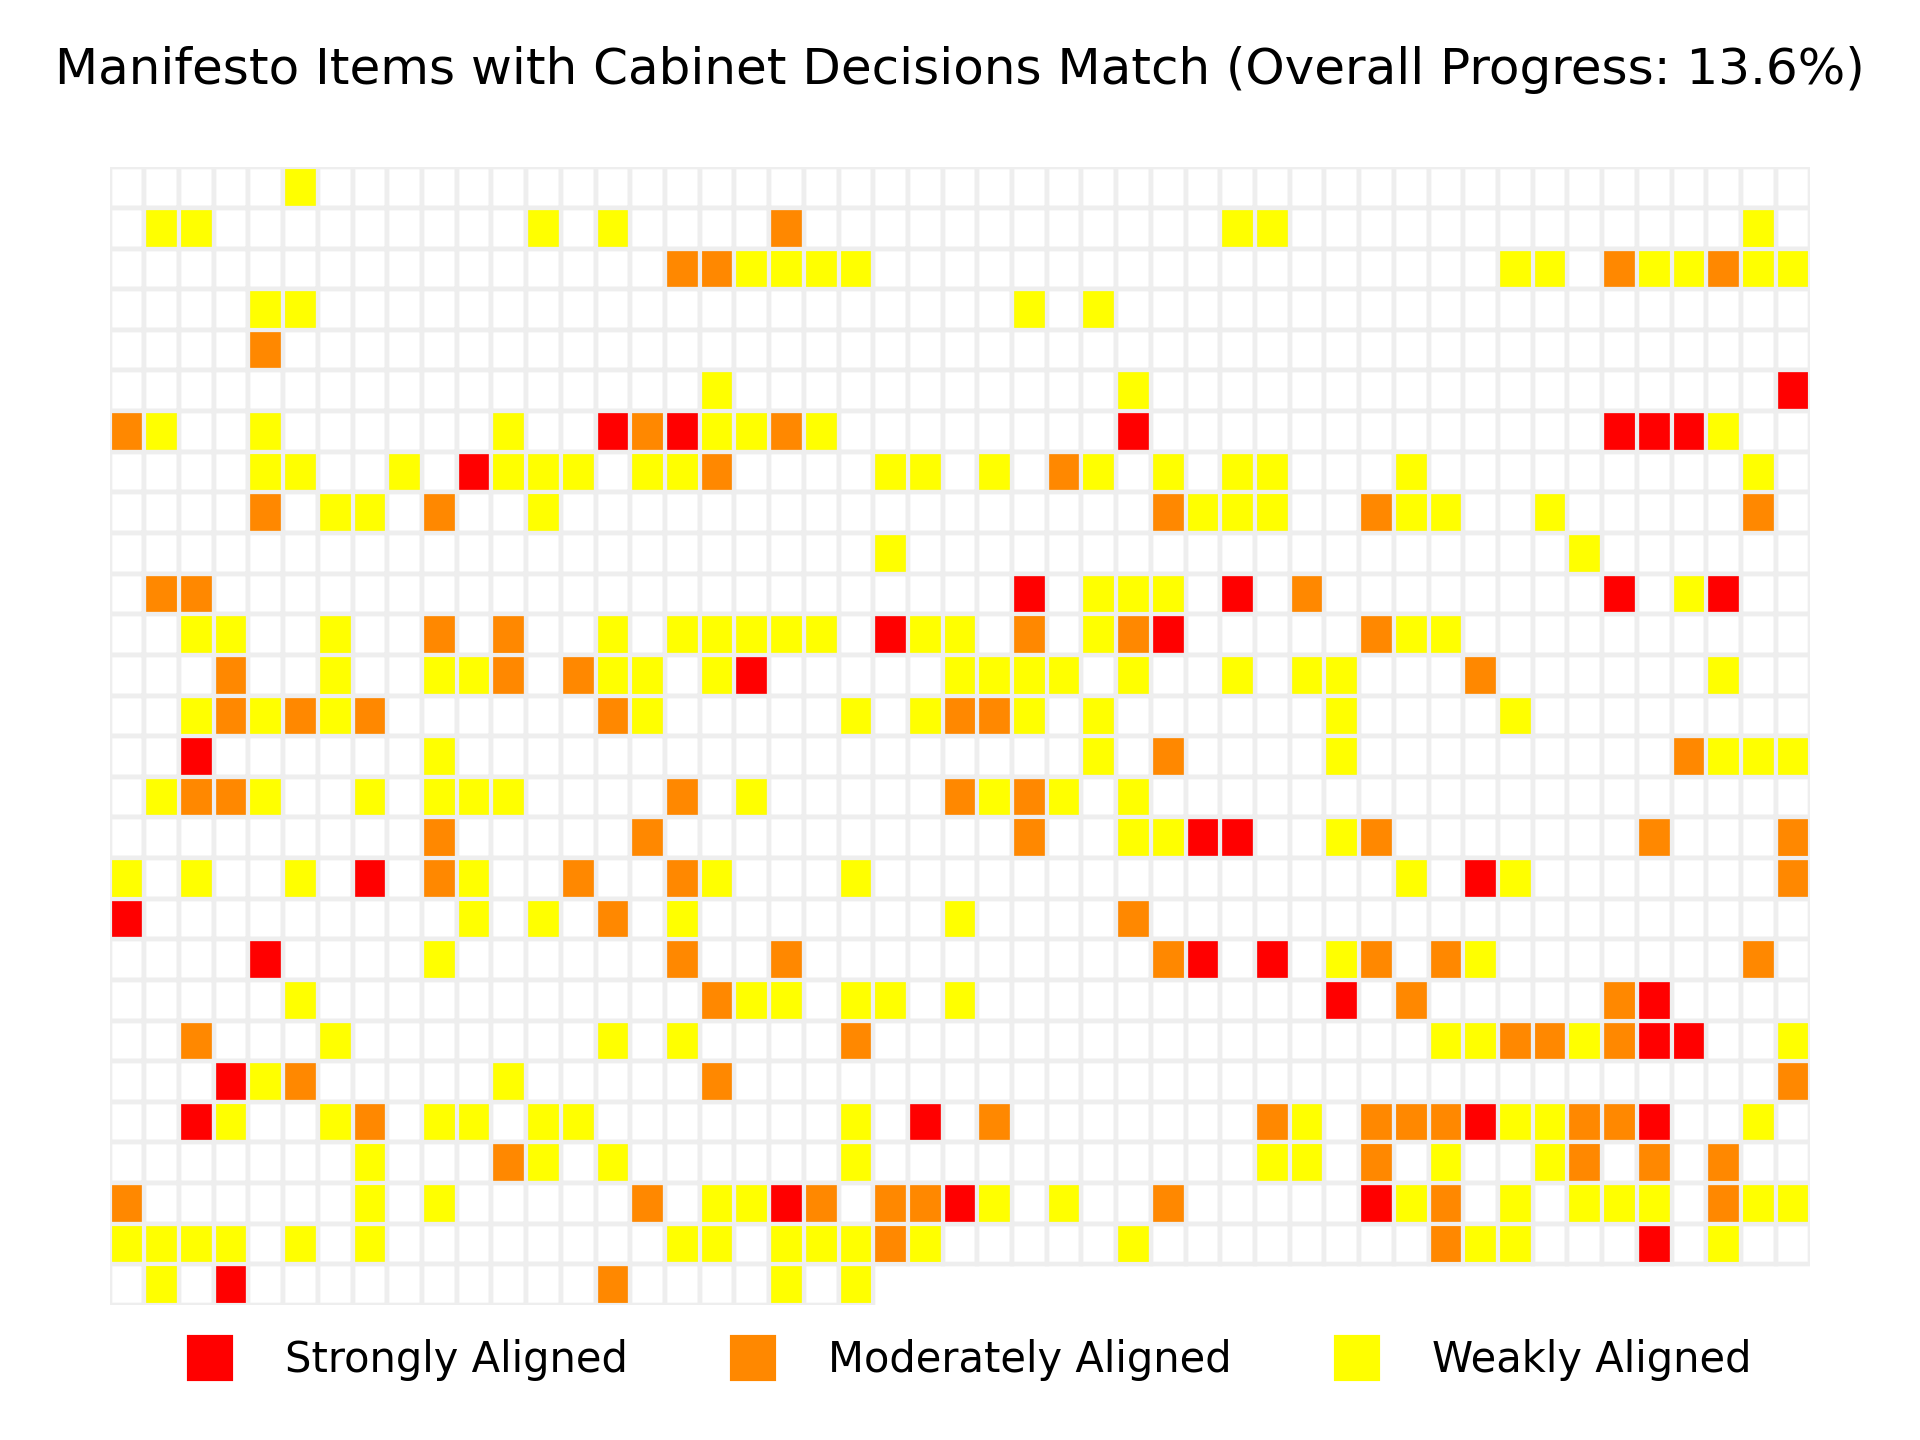
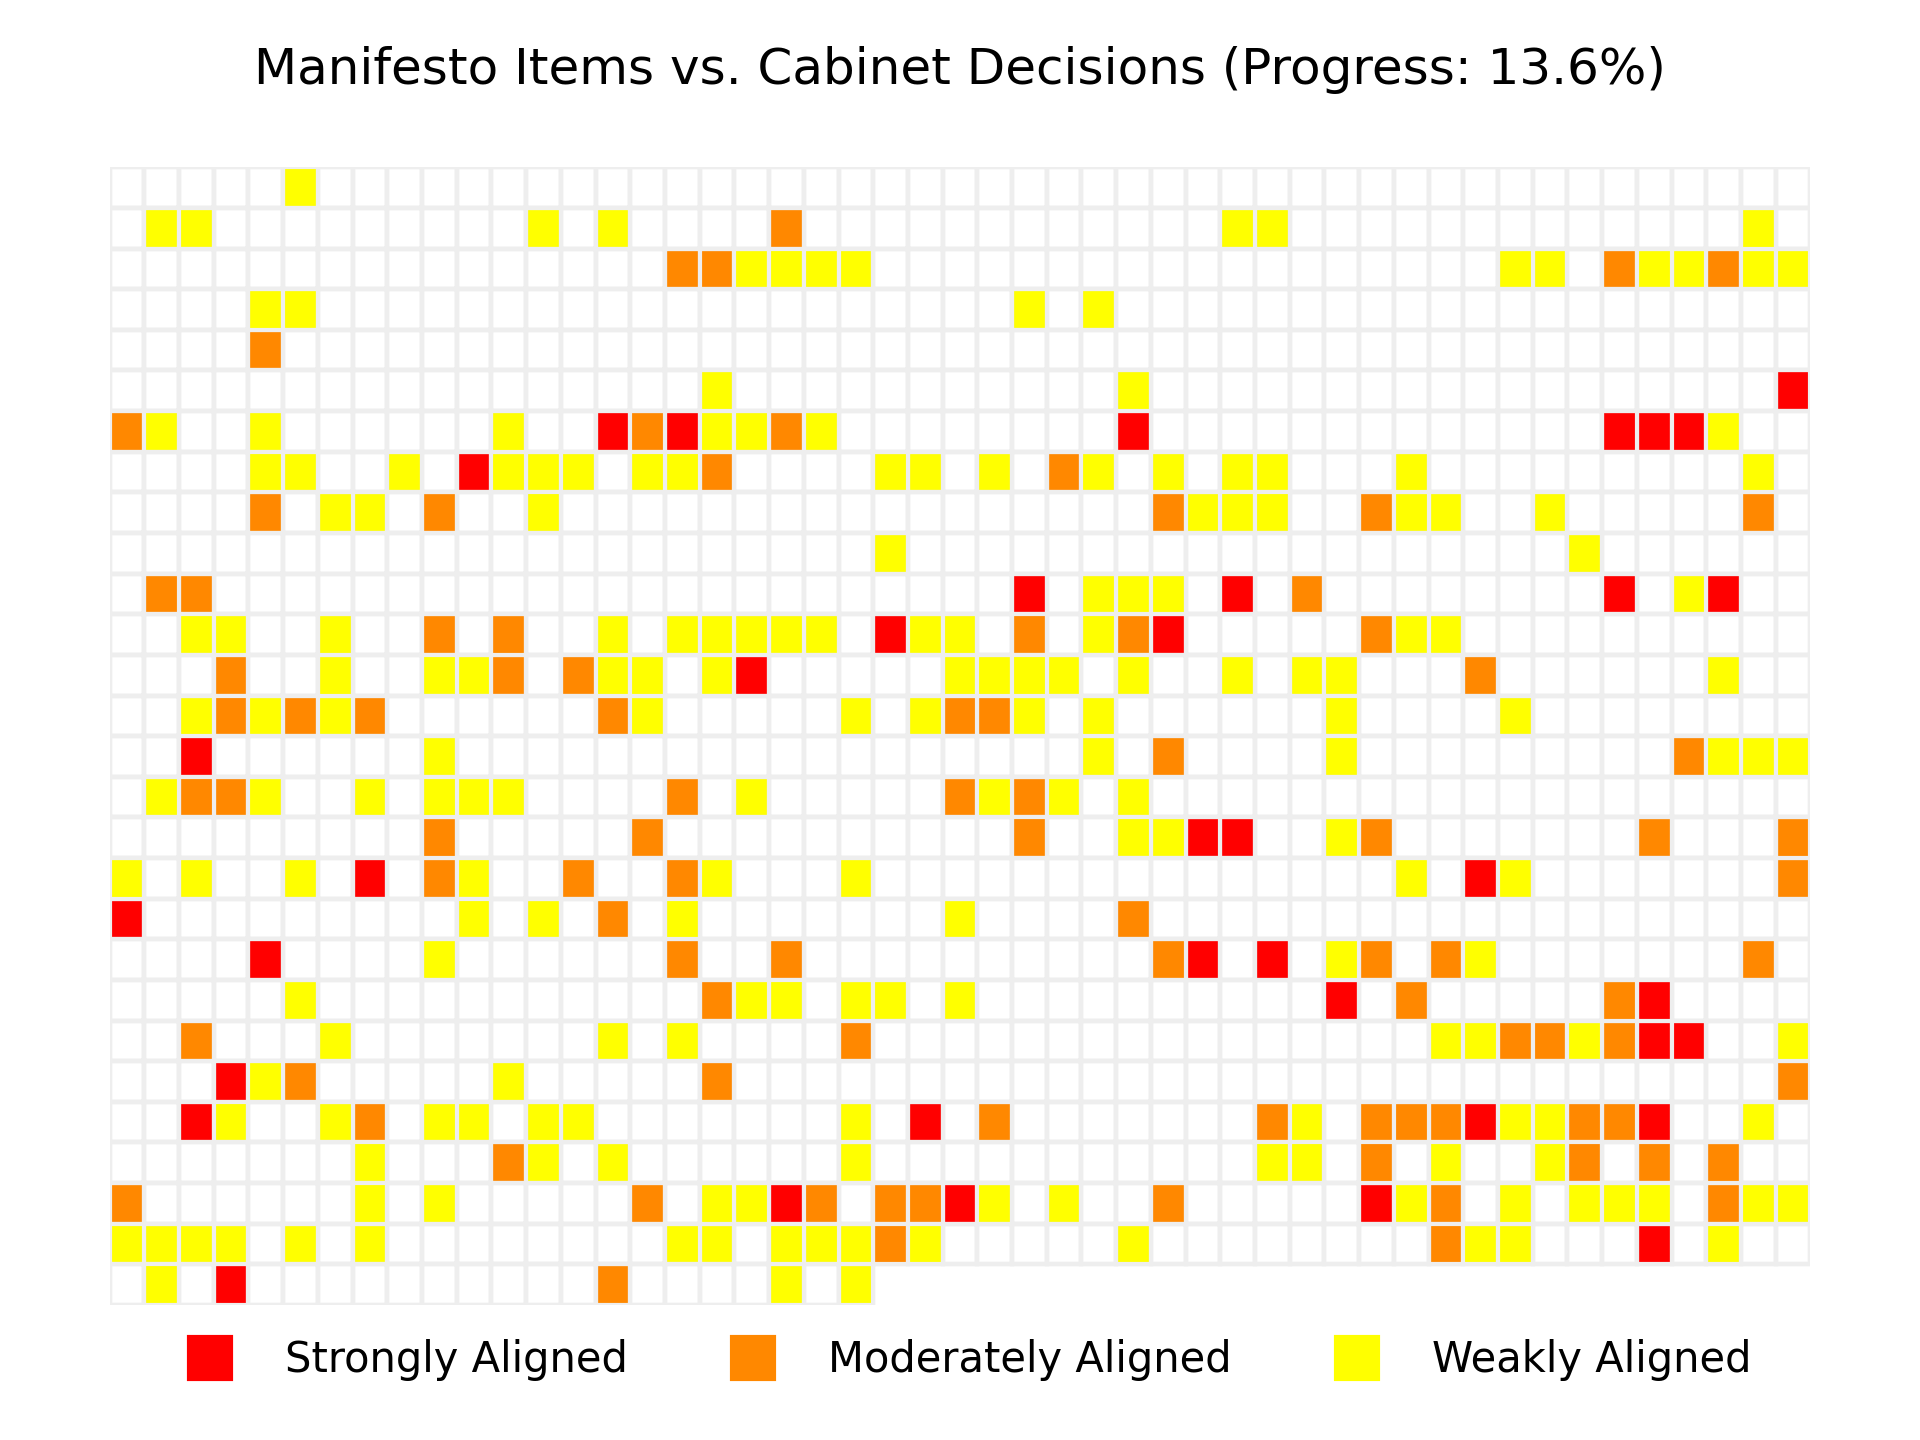
HeatMap - changed title; -> Progress

Changed region(s): [[0.0312, 0.0312, 0.9688, 0.0625]]

diff --git a/src/mm/monitoring/charts/HeatMap.py b/src/mm/monitoring/charts/HeatMap.py
@@ -112,8 +112,8 @@ class HeatMap:
         plt.gca().invert_yaxis()
         plt.axis("off")
         plt.title(
-            "Manifesto Items with Cabinet Decisions Match"
-            + f" (Overall Progress: {self.overall_progress:.1%})",
+            "Manifesto Items vs. Cabinet Decisions"
+            + f" (Progress: {self.overall_progress:.1%})",
             fontsize=12,
             pad=20,
         )

diff --git a/src/mm/monitoring/charts/ProgressChart.py b/src/mm/monitoring/charts/ProgressChart.py
@@ -66,7 +66,7 @@ class ProgressChart:
         self.draw_annotate_latest_progress()
 
         plt.xlabel("Date")
-        plt.ylabel("Overall Progress (%)")
+        plt.ylabel("Progress (%)")
         date_str = self.latest_date.strftime("%Y-%m-%d")
         plt.title(f"Manifesto Items vs. Cabinet Decisions (As of {date_str})")
         plt.ylim(0, 1.0)
